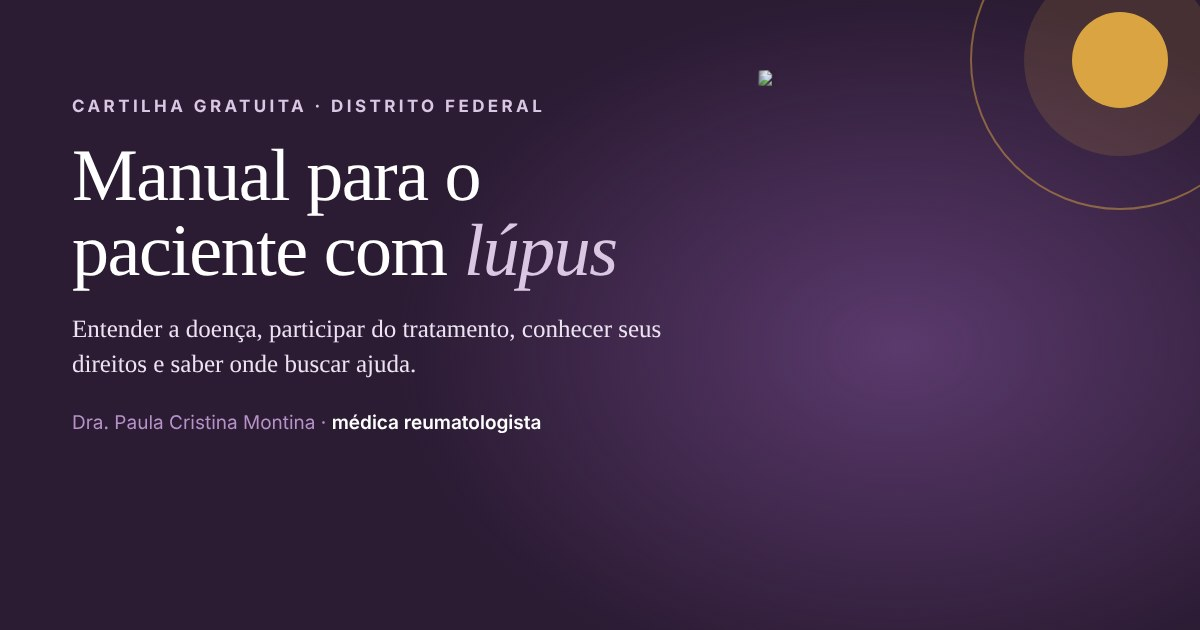
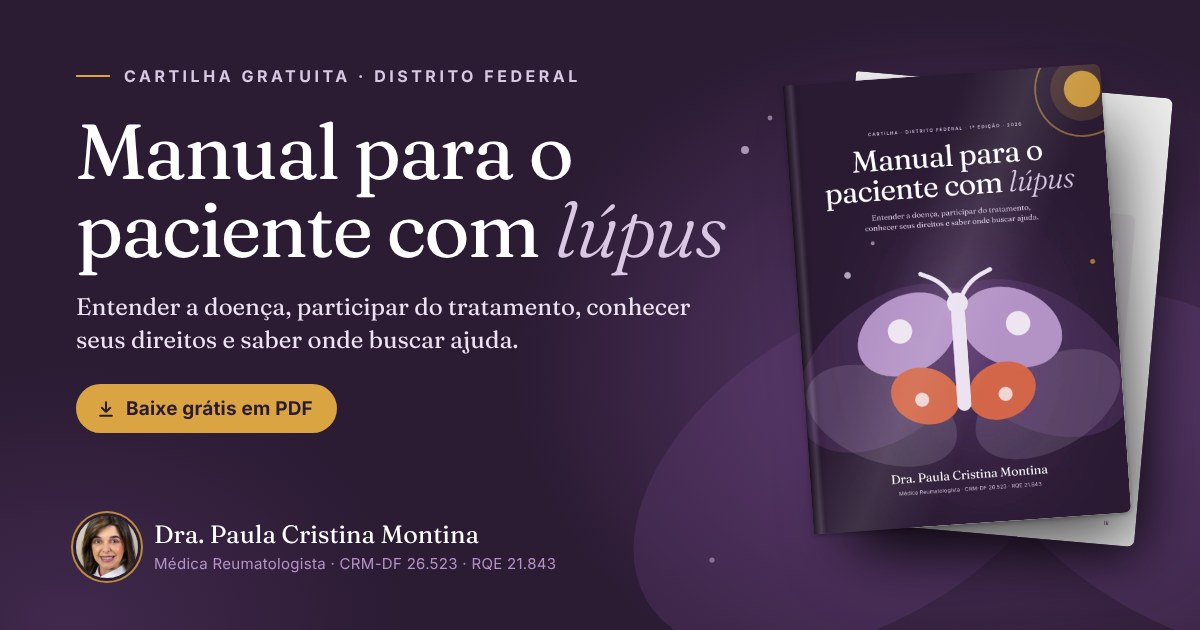
Capa da versão online corrigida e nova prévia para WhatsApp

diff --git a/ler/styles.css b/ler/styles.css
@@ -786,24 +786,38 @@ td.tel { white-space: nowrap; font-variant-numeric: tabular-nums; }
     margin: 0 auto;
     padding: 0 24px 80px;
   }
-  body.web .cover, body.web .back-cover {
+  body.web .back-cover {
     margin: 0 0 40px;
     height: auto;
     width: auto;
     min-height: 760px;
-    border-radius: 0 0 24px 24px;
     display: flex; flex-direction: column; justify-content: space-between;
   }
-  body.web .cover .art { inset: 0; top: 140px; }
-  body.web .cover .text { position: relative; left: 0; top: 0; padding: 56px 32px 0; max-width: 520px; }
-  body.web .cover .meta {
-    position: relative; margin-top: 260px;
-    padding: 56px 32px 36px;
-    background: linear-gradient(to bottom, rgba(43,27,51,0) 0%, rgba(43,27,51,.85) 45%, rgba(43,27,51,.95) 100%);
-    display: flex; justify-content: space-between; align-items: flex-end; gap: 24px; flex-wrap: wrap;
+  /* capa na tela: a mesma composição da impressa, em proporção A4, inteira na primeira dobra.
+     As medidas vêm da impressa convertidas para a largura da capa (1rem impresso = 1.764cqi). */
+  body.web .cover {
+    container-type: inline-size;
+    width: min(100%, 660px, calc((100svh - 120px) * 210 / 297));
+    height: auto;
+    aspect-ratio: 210 / 297;
+    margin: 36px auto 64px;
+    border-radius: 6px 14px 14px 6px;
+    box-shadow: 0 1px 2px rgba(43,27,51,.12), 0 24px 60px -18px rgba(43,27,51,.45);
   }
-  body.web .cover .author, body.web .cover .edition { position: static; }
-  body.web .cover .edition { text-align: right; }
+  body.web .cover::before {
+    content: ""; position: absolute; z-index: 2; left: 0; top: 0; bottom: 0; width: 2.6%;
+    background: linear-gradient(to right, rgba(0,0,0,.28), rgba(255,255,255,.08) 55%, transparent);
+    pointer-events: none;
+  }
+  body.web .cover .art { inset: 0; }
+  body.web .cover .text { left: 9.52cqi; right: 9.52cqi; top: 16.19cqi; padding: 0; max-width: none; }
+  body.web .cover .kicker { font-size: max(1.41cqi, 10px); margin-bottom: 2.47cqi; }
+  body.web .cover h1 { font-size: 9.35cqi; }
+  body.web .cover .sub { font-size: max(2.38cqi, 14px); margin-top: 2.47cqi; max-width: 76cqi; }
+  body.web .cover .meta { position: static; margin: 0; padding: 0; background: none; }
+  body.web .cover .author { left: 9.52cqi; right: 9.52cqi; bottom: 9.52cqi; }
+  body.web .cover .author strong { font-size: 3.88cqi; }
+  body.web .cover .author .cred { font-size: max(1.68cqi, 11.5px); margin-top: 1.19cqi; }
   body.web .back-cover { border-radius: 24px; min-height: 380px; margin-top: 60px; }
   body.web .back-cover .inner { position: relative; left: 0; right: 0; bottom: 0; padding: 48px 32px; }
   body.web .back-cover .mark { position: relative; top: 0; padding-top: 40px; }
@@ -835,10 +849,42 @@ td.tel { white-space: nowrap; font-variant-numeric: tabular-nums; }
   .preface-side .pull { grid-column: 1 / -1; }
   .tp-foot { flex-direction: column; align-items: flex-start; gap: 12px; }
   html { font-size: 16px; }
-  body.web .cover h1 { font-size: 2.6rem; }
-  body.web .cover { min-height: 640px; }
-  body.web .cover .meta { margin-top: 160px; }
-  body.web .cover .edition { text-align: left; }
+  /* no celular a capa ocupa a largura toda e fica mais alta que o A4; a arte se ancora embaixo */
+  body.web .cover {
+    width: auto; aspect-ratio: auto; height: max(600px, calc(100svh - 56px));
+    margin: 0 -24px 40px; border-radius: 0 0 22px 22px; box-shadow: none;
+  }
+  body.web .cover::before { display: none; }
+  body.web .cover .text { left: 24px; right: 24px; top: 44px; }
+  body.web .cover .kicker { font-size: 10.5px; letter-spacing: .2em; line-height: 1.7; margin-bottom: 18px; }
+  body.web .cover .kicker .sep { display: block; height: 0; overflow: hidden; }
+  body.web .cover h1 { font-size: 10.2cqi; }
+  body.web .cover .sub { font-size: 16px; margin-top: 16px; max-width: 300px; text-wrap: balance; }
+  body.web .cover .sub br { display: none; }
+  body.web .cover .author { left: 24px; right: 24px; bottom: 30px; }
+  body.web .cover .author strong { font-size: 25px; }
+  body.web .cover .author .cred { font-size: 12.5px; margin-top: 6px; line-height: 1.5; }
+  body.web .cover .author .cred .sep { display: block; height: 0; overflow: hidden; }
+  /* o recorte mais alto da arte esconderia o sol; no celular ele é redesenhado no canto, como na impressa */
+  body.web .cover .art circle[cx="197"] { display: none; }
+  body.web .cover .art::after {
+    content: ""; position: absolute; box-sizing: border-box;
+    width: 29.5cqi; height: 29.5cqi; right: -8.6cqi; top: -7.1cqi; border-radius: 50%;
+    border: .6cqi solid rgba(217,164,65,.55);
+    background: radial-gradient(closest-side, rgba(217,164,65,.9) 0 38.7%, rgba(217,164,65,.18) 39.5% 67.7%, transparent 68.5%);
+  }
+  body.web nav.webnav .dl { margin-left: auto; }
+  body.web .spot > div, body.web .card dd { min-width: 0; overflow-wrap: anywhere; }
+  body.web .flow .pair { white-space: normal; flex-wrap: wrap; }
+  body.web .refs h1, body.web .bonus h1 { font-size: 1.9rem; }
+  body.web .org-header { grid-template-columns: 96px minmax(0, 1fr); gap: 16px; }
+  body.web .org-header .org-logo { width: 96px; height: 96px; padding: 10px; }
+  body.web .preface-side { grid-template-columns: 112px minmax(0, 1fr); }
+  body.web .preface-side > * { min-width: 0; }
+  body.web nav.webnav { padding: 10px 16px; gap: 12px; }
+  body.web nav.webnav a { white-space: nowrap; }
+  body.web nav.webnav a[href="#sumario"] { display: none; }
+  body.web .imprint .logos, body.web .back-cover .logos { flex-wrap: wrap; gap: 16px 28px; justify-content: center; }
   body.web .chapter-opener h1 { font-size: 2.2rem; }
   body.web .chapter-opener .big-num { font-size: 5rem; }
   body.web h2 { font-size: 1.5rem; }
@@ -848,6 +894,15 @@ td.tel { white-space: nowrap; font-variant-numeric: tabular-nums; }
   body.web .qr-duo { grid-template-columns: 1fr; }
   body.web table { display: block; overflow-x: auto; }
   body.web td:first-child { white-space: normal; }
+}
+@media screen and (max-width: 400px) {
+  body.web .refs h1, body.web .bonus h1 { font-size: 1.5rem; }
+  body.web .tp-panel { padding-left: 14px; padding-right: 14px; }
+  body.web .chapter-grid { gap: 10px; }
+  body.web .chapter-grid a { padding: 12px 10px 10px; }
+  body.web .chapter-grid .t { font-size: .84rem; overflow-wrap: break-word; }
+  body.web .back-cover .inner { padding-left: 18px; padding-right: 18px; }
+  body.web .back-cover .collab-list { font-size: .78rem; }
 }
 
 /* ---------- acabamento tipográfico (auditoria) ---------- */

diff --git a/index.html b/index.html
@@ -14,11 +14,11 @@
 <meta property="og:title" content="Manual para o paciente com lúpus do Distrito Federal">
 <meta property="og:description" content="Cartilha gratuita para entender a doença, participar do tratamento, conhecer seus direitos e saber onde buscar ajuda no DF.">
 <meta property="og:url" content="https://victorsntz.github.io/montina/">
-<meta property="og:image" content="https://victorsntz.github.io/montina/og-cartilha.jpg">
+<meta property="og:image" content="https://victorsntz.github.io/montina/og-cartilha.jpg?v=6f6336c2">
 <link rel="canonical" href="https://victorsntz.github.io/montina/">
 <meta property="og:image:width" content="1200">
 <meta property="og:image:height" content="630">
-<meta property="og:image:alt" content="Capa da cartilha Manual para o paciente com lúpus, com uma borboleta lilás e terracota sobre fundo ameixa.">
+<meta property="og:image:alt" content="Cartilha gratuita Manual para o paciente com lúpus, da Dra. Paula Cristina Montina, com o livreto aberto mostrando a capa com a borboleta lilás e terracota.">
 <meta name="twitter:card" content="summary_large_image">
 <link rel="icon" href="favicon.svg" type="image/svg+xml">
 <link rel="preload" href="fonts/fraunces-latin-wght-normal.woff2" as="font" type="font/woff2" crossorigin>

diff --git a/ler/index.html b/ler/index.html
@@ -58,14 +58,14 @@
 </svg>
 </div>
   <div class="text">
-    <div class="kicker">Cartilha · Distrito Federal · 1ª edição · 2026</div>
+    <div class="kicker">Cartilha · Distrito Federal<span class="sep"> · </span><span class="ed">1ª edição · 2026</span></div>
     <h1>Manual para o<br>paciente com <em>lúpus</em></h1>
-    <p class="sub">Entender a doença, participar do tratamento,<br>conhecer seus direitos e saber onde buscar ajuda.</p>
+    <p class="sub">Entender a doença, participar do tratamento, <br>conhecer seus direitos e saber onde buscar ajuda.</p>
   </div>
   <div class="meta">
     <div class="author">
       <strong>Dra. Paula Cristina Montina</strong>
-      <span class="cred">Médica Reumatologista · CRM-DF 26.523 · RQE 21.843</span>
+      <span class="cred">Médica Reumatologista<span class="sep"> · </span><span class="nw">CRM-DF 26.523 · RQE 21.843</span></span>
     </div>
   </div>
 </section>
